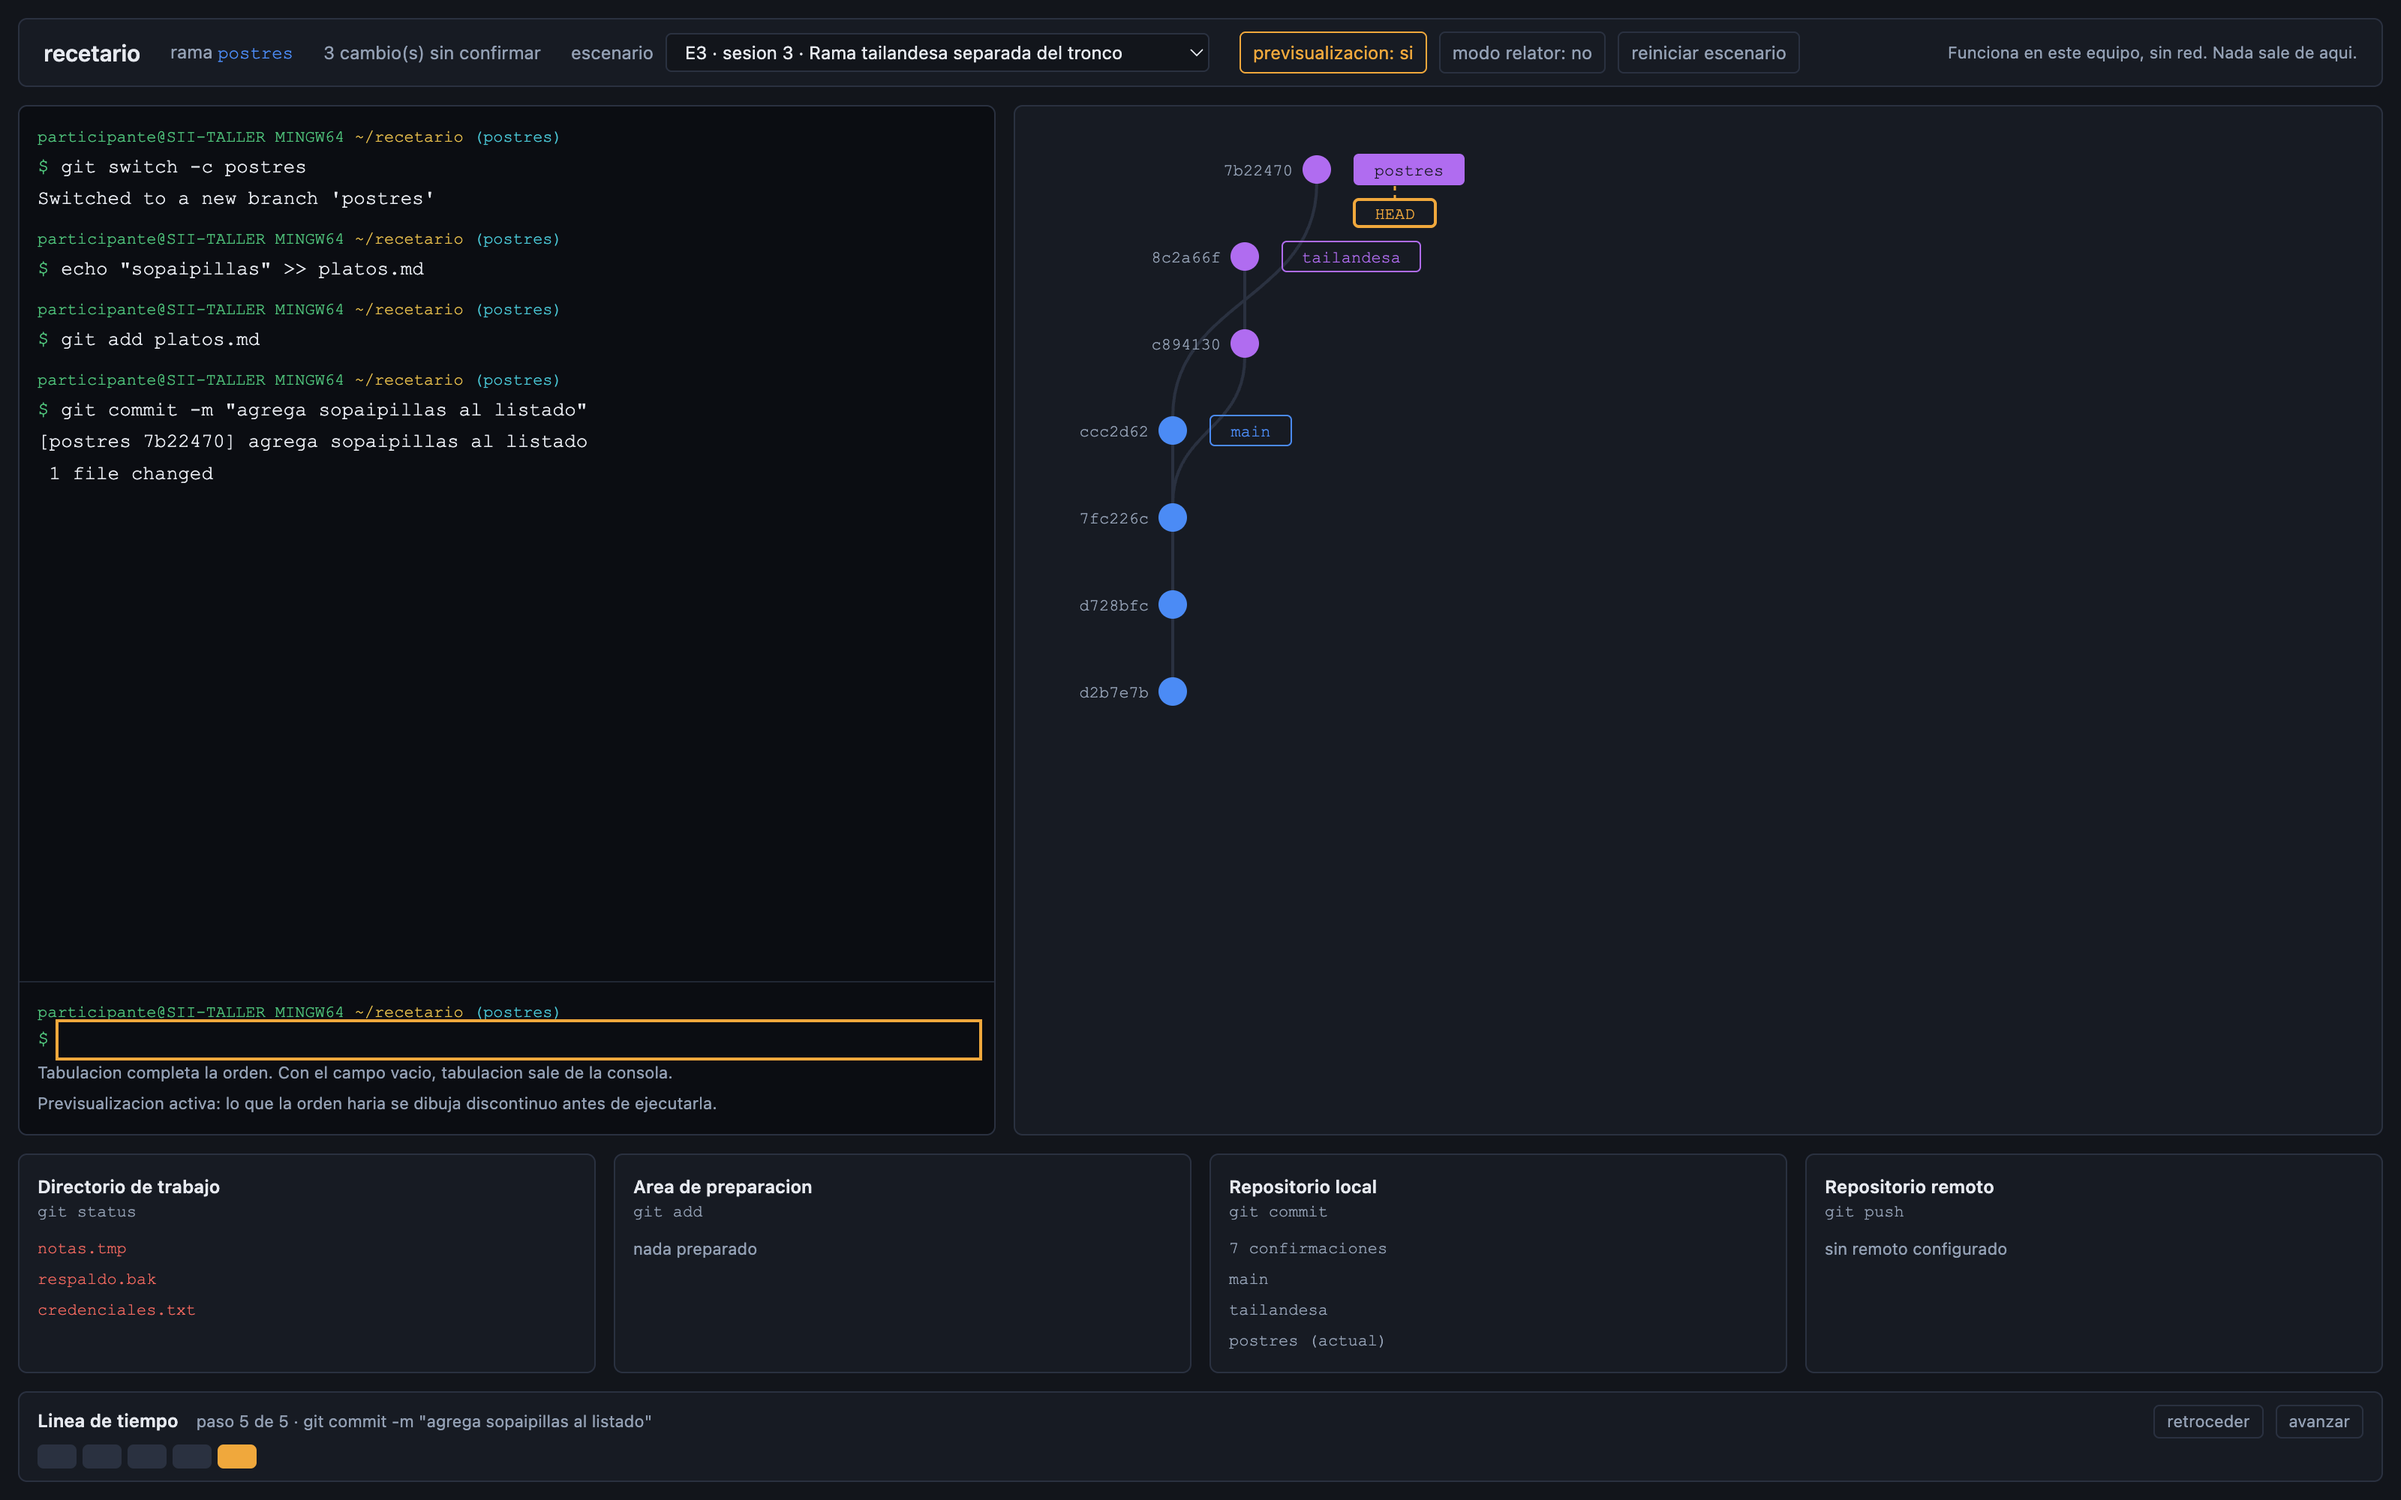
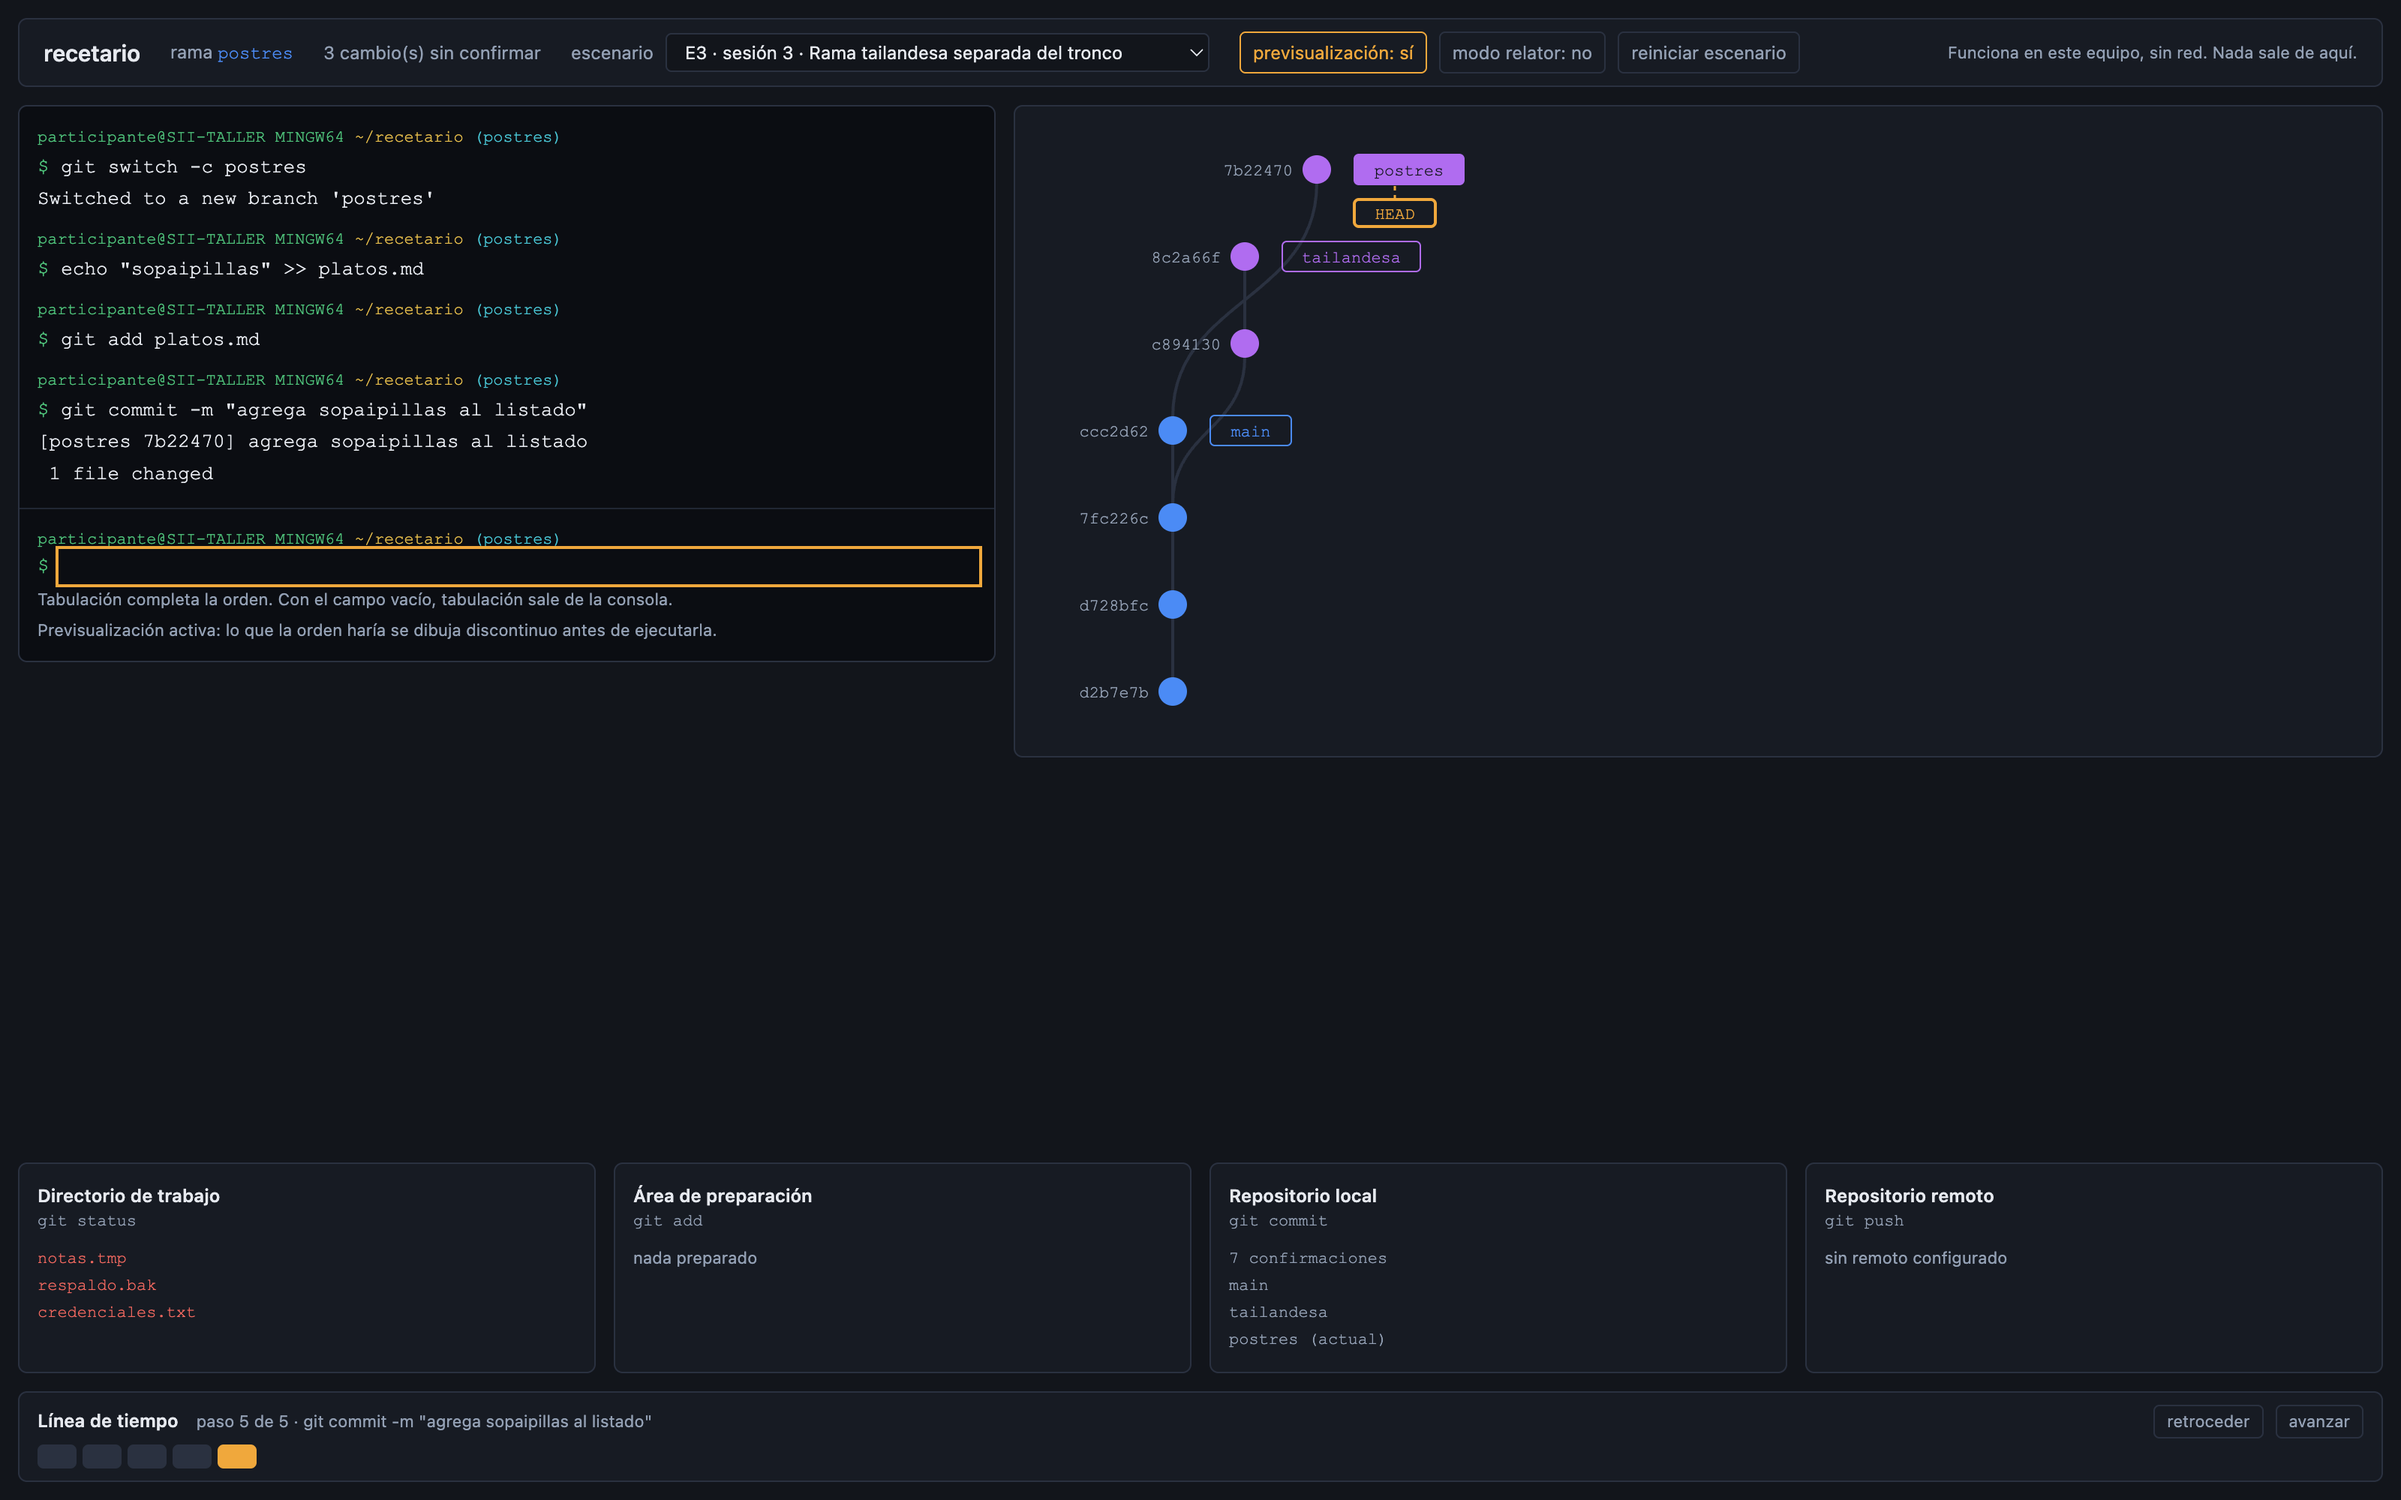
docs(capturas): confirma el guion que las produce y las rehace
El guion que conduce el navegador vivia fuera del repositorio, de modo que
rehacer las capturas cuando la vista cambiara dependia de volver a escribirlo.
Queda en `simulador/herramientas/capturas.mjs`, detras de `npm run capturas`.
No usa ninguna biblioteca: habla el protocolo de depuracion de Chrome por un
socket, y comprueba contra el documento que cada estado capturado es el que se
pidio.

Las cinco capturas se rehicieron con los cinco ajustes de la vista ya puestos.
`docs/arquitectura.md` recoge las decisiones nuevas: la 7.11 se reescribe, ya
que las zonas dejaron de repartirse el alto de la ventana, y se agregan la
7.13 a la 7.16.

Claude-Session: https://claude.ai/code/session_01HfzyvdFU7MGcijCCZuqaY5

diff --git a/docs/arquitectura.md b/docs/arquitectura.md
@@ -316,10 +316,48 @@ dos filas.** El punto 10.5 pide apilar en vertical en lugar de comprimir. Las
 zonas se apilan, y dentro de la franja de areas las cuatro columnas pasan a dos
 por dos antes que angostarse hasta ser ilegibles.
 
-**7.11 La franja de areas cede espacio antes que la linea de tiempo.** El
-armazon se ancla a la altura de la ventana. Si algo no cabe, se desplaza la
-franja de areas; la barra, la consola, el grafo y la linea de tiempo quedan
-siempre a la vista, porque la linea de tiempo es un control y no un contenido.
+**7.11 Las zonas miden lo que su contenido pide.** La primera version anclaba
+el armazon a la altura de la ventana y repartia ese alto entre las zonas. El
+resultado se vio recien en las capturas: en el escenario E1 la consola era una
+caja negra de mil pixeles vacios y el grafo un recuadro con una sola frase.
+
+Ahora la altura de la ventana es un minimo y no un reparto. La consola y el
+grafo miden su contenido y crecen desde arriba, con un tope de `100dvh` menos
+veinte unidades, que es lo que ocupan la barra, la franja de areas y la linea
+de tiempo juntas; pasado ese tope se desplazan por dentro y las cuatro zonas
+siguen cabiendo en la ventana. La franja de areas y la linea de tiempo quedan
+apoyadas en el borde inferior, de modo que el hueco sobrante cae entre el grafo
+y las areas, que es justo por donde el grafo va a crecer durante la clase, y no
+debajo de todo. Las dos zonas de abajo no se deslizan a medida que aparecen
+confirmaciones.
+
+**7.13 Las listas de archivos se desplazan por filas enteras.** El tope de las
+listas de la zona D es un multiplo exacto del alto de fila, y ambas medidas se
+escalan con la interfaz. Asi el corte del desplazamiento siempre cae entre dos
+lineas: nunca se ve media linea asomando, que es lo que ocurria cuando el tope
+era una medida suelta. La lista pasa a ser parada de tabulacion solo cuando de
+verdad se desplaza, para no agregar paradas que no llevan a ninguna parte.
+
+**7.14 La ayuda de la consola aparece cuando sirve.** Las dos lineas que
+explican la tabulacion y la previsualizacion se muestran solo con el campo
+enfocado y todavia vacio, y desaparecen al escribir. Permanentes se leen las
+primeras veces y despues son ruido, sobre todo proyectadas.
+
+**7.15 El grupo de huerfanas va rotulado.** El gris atenuado las distingue,
+pero no dice que son. Un rotulo discreto, `sin referencia`, se dibuja a la
+derecha del grupo y a la altura de su centro, para que se lea como del conjunto
+y no de una confirmacion en particular. Ese costado siempre esta libre: una
+huerfana, por definicion, no tiene ninguna etiqueta apuntandola. La posicion la
+calcula el modulo de disposicion, no el componente, como todo lo demas del
+dibujo.
+
+**7.16 La interfaz va acentuada aunque los specs vinieran sin tildes.** Los
+dos specs se escribieron sin acentos y la interfaz los copio. Se corrigio todo
+lo que el participante lee: rotulos, avisos, titulos de escenario y textos de
+ayuda. Los specs quedan como estan, porque son el encargo y no la entrega, y
+los nombres del codigo tampoco se tocan: `onPrevisualizacion` sigue sin tilde.
+La salida de las ordenes tampoco cambia, porque va en el idioma de Git
+(decision 4.2). Una prueba fija los textos acentuados uno por uno.
 
 **7.12 Nada se guarda en el navegador.** El punto 7.4 lo pide para la linea de
 tiempo y se extendio a toda la interfaz: recargar la pagina devuelve el

diff --git a/docs/capturas/README.md b/docs/capturas/README.md
@@ -5,6 +5,19 @@ Chrome y conducido como lo haria un participante: escribiendo en la consola y
 cambiando de escenario con el selector de la barra. Ventana de 1600 por 1000
 pixeles, al doble de resolucion.
 
+Se regeneran con el guion que las produce, sin pasos a mano:
+
+```bash
+cd simulador
+npm run build
+npm run capturas
+```
+
+El guion vive en `simulador/herramientas/capturas.mjs`, no usa ninguna
+biblioteca y comprueba contra el documento que cada estado capturado es el que
+se pidio. Con `node herramientas/capturas.mjs --ver` abre la ventana, que sirve
+cuando una captura no sale como se esperaba.
+
 Son el respaldo visual de los criterios de aceptacion del SPEC 002 que hablan
 de lo que se ve, y no de lo que el modelo calcula.
 
@@ -13,9 +26,6 @@ de lo que se ve, y no de lo que el modelo calcula.
 | `01-e1-inicio.png` | E1 | Estado de partida de la sesion 1. Sin confirmaciones, los seis archivos sin seguimiento en rojo en el directorio de trabajo, el grafo diciendo que la primera confirmacion aparecera ahi. |
 | `02-e3-inicio.png` | E3 | La rama `tailandesa` separada del tronco, `main` con `HEAD` colgando debajo, y las dos ramas en colores distintos. |
 | `03-e3-rama-nueva-y-confirmacion.png` | E3 | Criterio CA2. Despues de `git switch -c postres`, modificar `platos.md`, prepararlo y confirmar: la etiqueta `postres` nueva, `HEAD` colgando de ella y la confirmacion recien creada arriba. |
-| `04-e4-previsualizacion-fusion.png` | E4 | Criterio CA3. `git merge tailandesa` escrita y sin ejecutar: la union `171604c` dibujada en trazo discontinuo y sin relleno, sus dos aristas tambien discontinuas, y el aviso de la consola en ambar. |
-| `05-e3-despues-del-rebase.png` | E3 | Criterio CA4. Tras `git rebase main`, las dos confirmaciones originales quedan en gris atenuado y siguen dibujadas, mientras las copias nuevas aparecen arriba con identificadores distintos. |
+| `04-e4-previsualizacion-fusion.png` | E4 | Criterio CA3. `git merge tailandesa` escrita y sin ejecutar: la union que la fusion produciria, dibujada en trazo discontinuo y sin relleno, sus dos aristas tambien discontinuas, y el aviso de la consola en ambar. |
+| `05-e3-despues-del-rebase.png` | E3 | Criterio CA4. Tras `git rebase main`, las dos confirmaciones originales quedan en gris atenuado y siguen dibujadas, rotuladas `sin referencia`, mientras las copias nuevas aparecen arriba con identificadores distintos. |
 
-Para rehacerlas hay que construir primero (`npm run build` dentro de
-`simulador`) y repetir sobre la pantalla la secuencia de ordenes que describe
-cada fila.

diff --git a/README.md b/README.md
@@ -88,7 +88,7 @@ Ejecuta las pruebas y mide la cobertura del motor, de los escenarios, del
 calculo de posiciones y del modelo de vista. La orden falla si la cobertura de
 lineas baja del 90 por ciento, que es el minimo que fija el SPEC 001.
 
-Estado actual: 214 pruebas, 98 por ciento de cobertura de lineas.
+Estado actual: 230 pruebas, 98 por ciento de cobertura de lineas.
 
 Otras ordenes utiles:
 
@@ -96,6 +96,7 @@ Otras ordenes utiles:
 npm run test:observar   # repite las pruebas cada vez que se guarda un archivo
 npm run tipos           # revisa los tipos sin construir
 npm run lint            # pasa el linter sobre el codigo y las pruebas
+npm run capturas        # rehace las capturas de docs/capturas desde el navegador
 npm run dev             # levanta el simulador con recarga en caliente
 ```
 
@@ -106,7 +107,8 @@ es siempre el archivo de `dist`.
 
 Hay capturas de la pantalla real en [`docs/capturas`](docs/capturas), sobre los
 escenarios E1, E3 y E4, incluyendo la previsualizacion de una fusion y el
-resultado de un rebase.
+resultado de un rebase. Se rehacen con `npm run capturas` despues de construir,
+de modo que se pueden actualizar cada vez que la vista cambie.
 
 La pantalla tiene cinco zonas:
 
